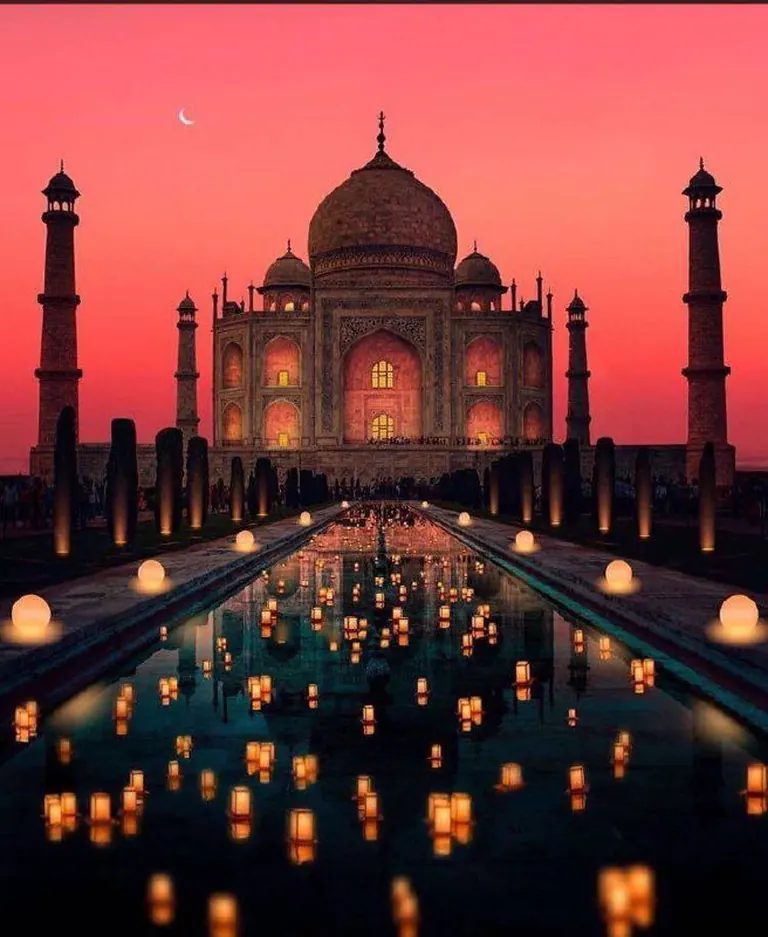
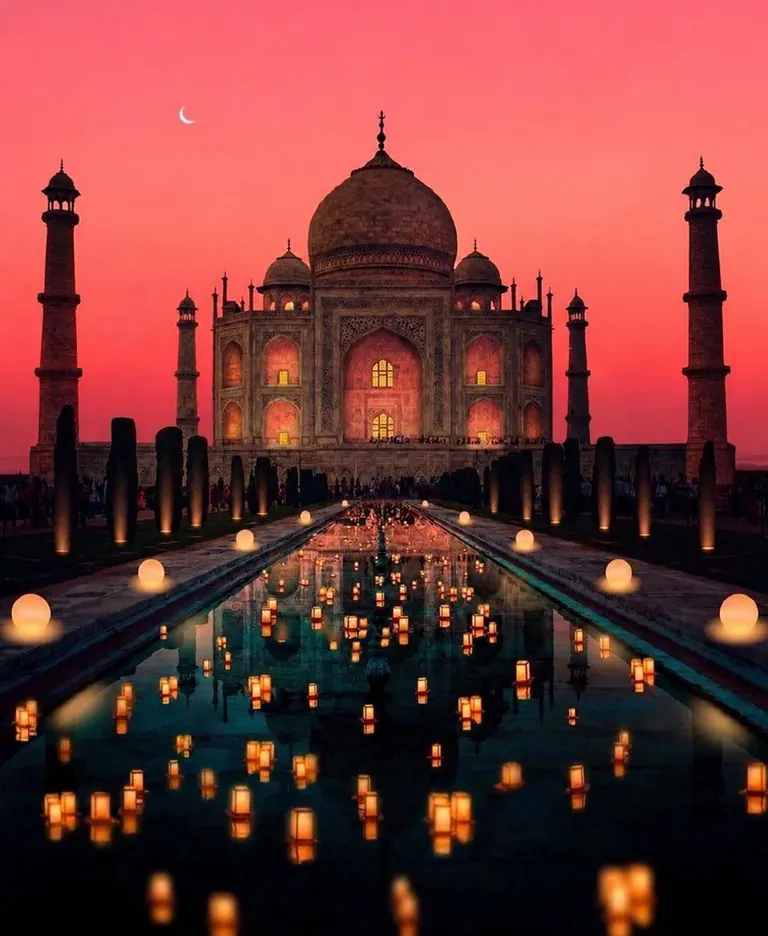
Update wishlist copy, product links and travel photos

diff --git a/site/items.js b/site/items.js
@@ -5,11 +5,12 @@ export const items = [
     description: '',
     image: '/assets/rose-jam-1536.webp',
     alt: 'Варенье из лепестков роз на керамической тарелке с золотистой ложкой',
+    url: 'https://www.mercadolibre.com.ar/mermelada-de-petalos-de-rosa-de-yunnan-con-miel-1235-oz-de/up/MLAU5270707444',
   },
   {
     id: 'hydrogel-patches',
     title: 'Гидрогелевые патчи',
-    description: 'Мои любимые — Faberlic Oceanum, но можно и другие.',
+    description: 'Мои любимые Faberlic Oceanum, но можно и другие',
     image: '/assets/hydrogel-patches-1536.webp',
     alt: 'Зелёные гидрогелевые патчи в открытой баночке среди бирюзовой воды',
   },
@@ -49,7 +50,7 @@ export const items = [
   },
   {
     id: 'black-caviar',
-    title: 'Попробовать чёрную икру',
+    title: 'Банка черной икры',
     description: '',
     image: '/assets/black-caviar-1536.webp',
     width: 1536,
@@ -82,7 +83,7 @@ export const items = [
   },
   {
     id: 'taj-mahal',
-    title: 'Побывать в Индии и увидеть Тадж-Махал',
+    title: 'В Индии и увидеть Тадж-Махал',
     description: '',
     image: '/assets/taj-mahal-1536.webp',
     width: 1536,
@@ -115,8 +116,8 @@ export const items = [
   },
   {
     id: 'torres-tasting',
-    title: 'Дегустация San Valentine',
-    description: 'На винодельне Torres.',
+    title: 'Экскурсия на винодельню Torres в Испании',
+    description: 'Дегустация San Valentine',
     image: '/assets/torres-tasting-1536.webp',
     width: 1536,
     height: 1152,
@@ -125,19 +126,8 @@ export const items = [
     alt: 'Виноградники и здания винодельни',
   },
   {
-    id: 'manyo-mask',
-    title: 'Маска MANYO FACTORY',
-    description: 'Green Energy Calming Mask Pack.',
-    image: '/assets/manyo-mask-1536.webp',
-    width: 1536,
-    height: 1448,
-    fit: 'contain',
-    background: '#f2f2f3',
-    alt: 'Зелёная маска MANYO FACTORY в открытой баночке',
-  },
-  {
     id: 'yatao-concert',
-    title: 'Концерт Malte Marten / Yatao',
+    title: 'Концерты Malte Marten или Yatao',
     description: '',
     image: '/assets/yatao-concert-1536.webp',
     width: 1536,
@@ -148,8 +138,8 @@ export const items = [
   },
   {
     id: 'blue-mules',
-    title: 'Голубые мюли',
-    description: '',
+    title: 'Такие тапочки',
+    description: 'Размер 39',
     image: '/assets/blue-mules-1536.webp',
     width: 1536,
     height: 1971,
@@ -159,8 +149,8 @@ export const items = [
   },
   {
     id: 'montenegro',
-    title: 'Пожить в Черногории',
-    description: 'Больше года.',
+    title: 'Пожить в Черногории больше года',
+    description: '',
     image: '/assets/montenegro-1536.webp',
     width: 1536,
     height: 1152,
@@ -169,15 +159,27 @@ export const items = [
     alt: 'Побережье Черногории с горами и черепичными крышами',
   },
   {
+    id: 'italy-travel',
+    title: 'Путешествие по Италии в течение года или двух с остановкой в разных местах',
+    description: '',
+    image: '/assets/italy-travel-1536.webp',
+    width: 1536,
+    height: 1024,
+    fit: 'contain',
+    background: '#f2f2f3',
+    alt: 'Венеция: Гранд-канал и базилика Санта-Мария-делла-Салюте',
+  },
+  {
     id: 'k18-hair-mask',
-    title: 'Маска для волос K18',
-    description: '150 мл, оригинал.',
+    title: 'Маска для волос K18, 150 мл, оригинал',
+    description: '',
     image: '/assets/k18-hair-mask-1536.webp',
     width: 1536,
     height: 1934,
     fit: 'contain',
     background: '#f2f2f3',
     alt: 'Белый флакон маски для волос K18',
+    url: 'https://www.mercadolibre.com.ar/k18-leave-in-150ml-reparacion-hair-mascarilla-witou/up/MLAU4002316294',
   },
   {
     id: 'rare-beauty-highlighter',

diff --git a/site/index.html b/site/index.html
@@ -15,7 +15,7 @@
     <header class="header">
       <div class="header-inner">
       <a class="brand" href="https://ks-design.art" aria-label="KS DESIGN"><span>KS<span class="brand-dot" aria-hidden="true"></span><span class="sr-only"> </span>DESIGN</span></a>
-      <h1>WISHLIST</h1>
+      <h1 class="sr-only">Мой список желаний</h1>
       <div class="view-switch" role="group" aria-label="Отображение желаний">
         <button type="button" data-view="gallery" aria-label="Карусель" title="Карусель" aria-pressed="true">
           <svg viewBox="0 0 32 24" aria-hidden="true"><rect x="1" y="8" width="6" height="8"/><rect x="11" y="3" width="10" height="18"/><rect x="25" y="8" width="6" height="8"/></svg>
@@ -38,7 +38,7 @@
           <div class="card-copy">
             <h2>Варенье из лепестков роз</h2>
             <p hidden></p>
-            <a class="item-link" hidden target="_blank" rel="noopener noreferrer">ПОСМОТРЕТЬ В МАГАЗИНЕ <span aria-hidden="true">↗</span></a>
+            <a class="item-link" href="https://www.mercadolibre.com.ar/mermelada-de-petalos-de-rosa-de-yunnan-con-miel-1235-oz-de/up/MLAU5270707444" aria-label="Посмотреть в магазине: Варенье из лепестков роз" target="_blank" rel="noopener noreferrer">ПОСМОТРЕТЬ В МАГАЗИНЕ <span aria-hidden="true">↗</span></a>
           </div>
         </article>
         <div class="gallery-side gallery-side-right">
@@ -52,7 +52,7 @@
       <p class="sr-only" id="announcement" aria-live="polite" aria-atomic="true"></p>
     </main>
     <footer class="wishlist-note">
-      <p>Здесь вообще все мои великолепные идеи, чтобы не было скучно :) Так что это абсолютно нормально, что не все их можно реализовать. Выбирайте по своему желанию и возможностям :)</p>
+      <p>Здесь вообще все мои безумные идеи :) Но можно выбрать что-то на подарок :)</p>
     </footer>
   </body>
 </html>

diff --git a/site/styles.css b/site/styles.css
@@ -37,7 +37,7 @@ button:focus-visible, a:focus-visible, .gallery:focus-visible { outline: 2px sol
 .header-inner {
   width: 100%; max-width: 1216px; height: 100%; margin-inline: auto;
   padding-inline: var(--edge);
-  display: grid; grid-template-columns: 1fr auto 1fr; align-items: center;
+  display: grid; grid-template-columns: 1fr auto; align-items: center;
 }
 .brand { display: inline-flex; align-items: center; min-height: 44px; font-size: .78rem; font-weight: 700; letter-spacing: .14em; justify-self: start; white-space: nowrap; text-decoration: none; }
 .brand-dot { display: inline-block; width: .4em; height: .4em; border-radius: 50%; background: linear-gradient(135deg,#818cf8,#22d3ee); margin: 0 .3em 0 .01em; }

diff --git a/docs/wishlist-design.md b/docs/wishlist-design.md
@@ -169,3 +169,38 @@ now includes heights up to 680px, and both initial and dynamic image hints
 use that same threshold. Another 120 slide/viewport cases pass at 1024×601,
 1024×640, 1024×680, 1024×681, 390×761 and 360×761, including both sides of the
 layout breakpoints.
+
+## Wishlist copy revision — 2026-10-14
+
+The visible WISHLIST label is removed; the page retains a Russian heading for
+screen readers. The header uses two columns for the brand and view controls.
+The footer now reads: “Здесь вообще все мои безумные идеи :) Но можно выбрать
+что-то на подарок :)”.
+
+The Torres excursion is the heading and San Valentine tasting the description.
+MANYO and its responsive assets are removed. The concert, slippers (size 39),
+Montenegro, patches, caviar and India copy follow the user's corrections. K18's
+amount and authenticity are part of its bold heading. Rose jam and K18 link to
+the supplied Mercado Libre products. Italy replaces MANYO in the total of 20
+wishes, using the user's Venice attachment, resized and encoded as local WebP.
+
+The built-in imagegen tool removed the Taj Mahal photo's black top border;
+its output is encoded in the existing `taj-mahal-{1536,768,192}.webp` assets.
+The final prompt was:
+
+> Remove only the thin black horizontal strip at the very top by cropping away
+> the top strip. Preserve the exact original photograph, Taj Mahal architecture,
+> sunset color, crescent moon, lights, reflections, composition and all remaining
+> pixels as closely as possible. Do not retouch, recreate, add detail or change
+> anything else. Output the same portrait photograph with no black top border.
+
+Chrome QA confirms the desktop carousel and three-column grid, the one-column
+390px grid, all 20 titles/descriptions and the three shop links. K18's complete
+heading has weight 800. All 60 carousel cases at 390×844, 360×640 and 844×390
+fit the card and footer without horizontal or vertical overflow. Italy and K18
+were inspected in the grid, and Italy in the carousel. No console warnings or
+errors were captured. The viewport override was reset.
+
+Preflight passes 32 harness, six site and eight production tests, build and
+syntax checks. Delivery is 1071ms first paint and 1277ms full load, within the
+unchanged 1066ms / 1271ms baseline tolerance.
